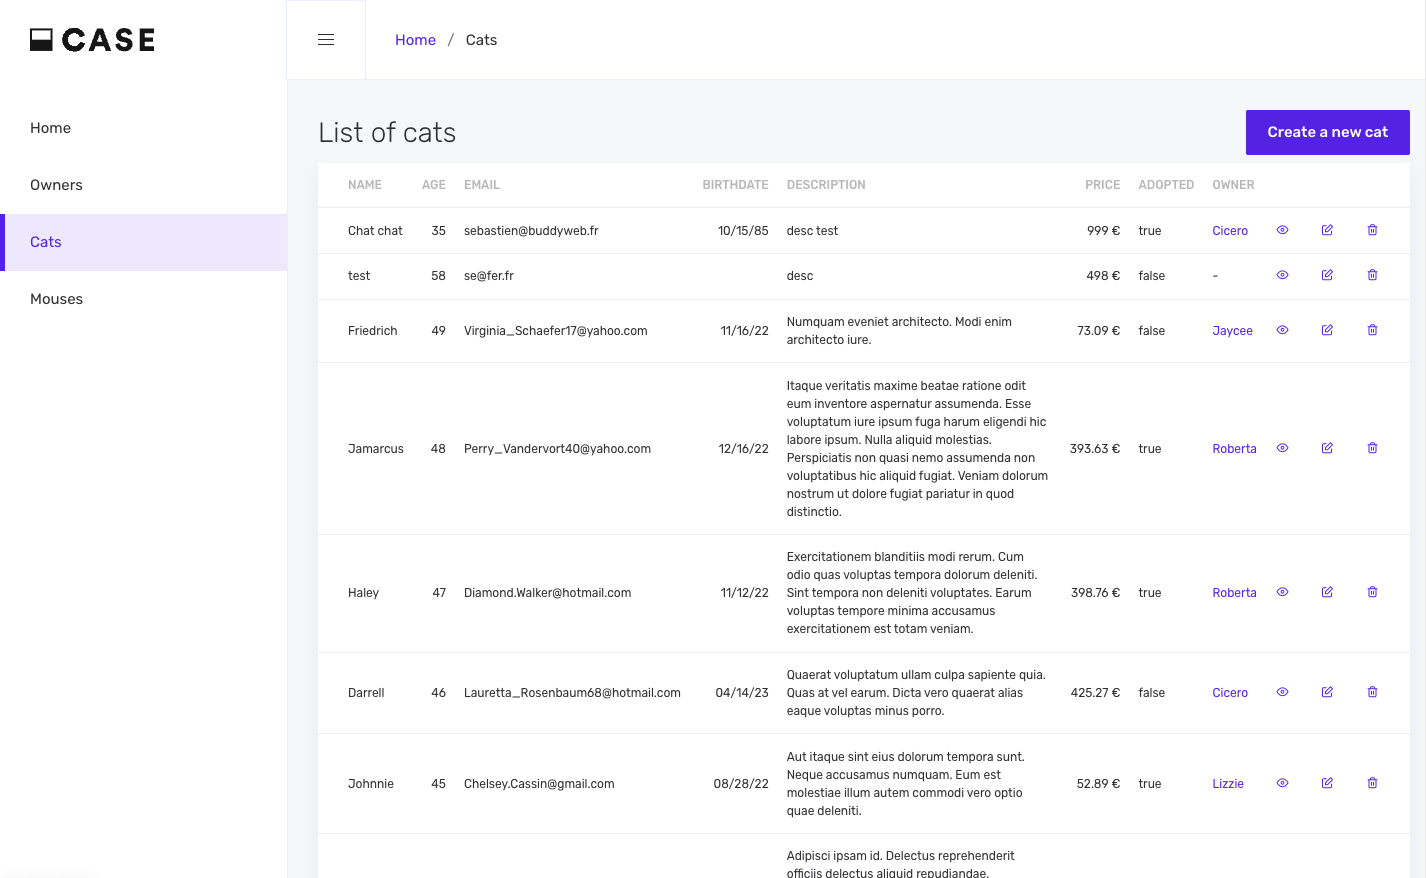
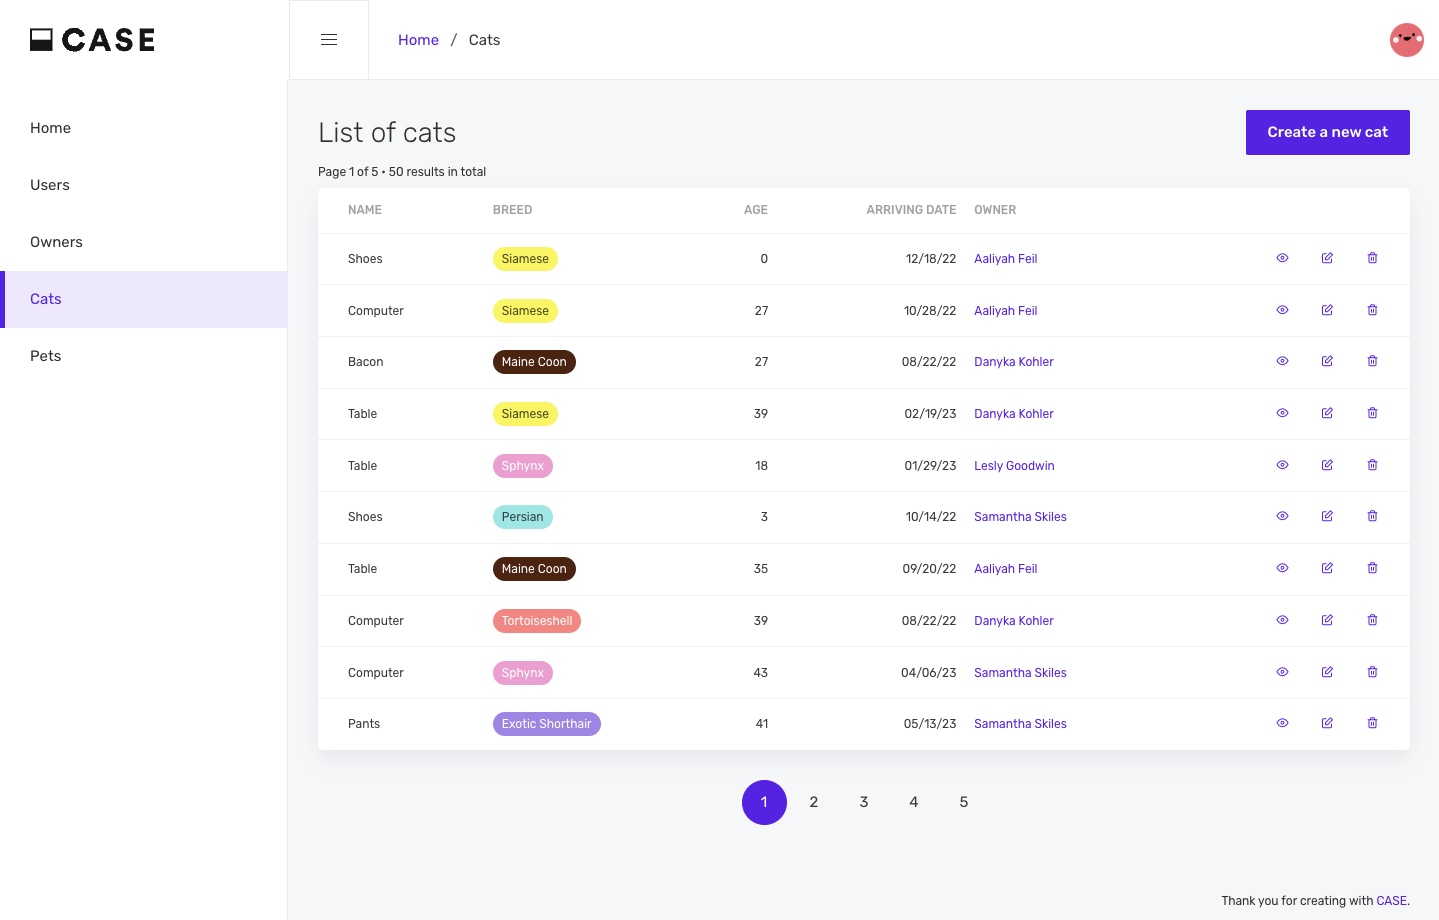
doc: start to style the V2 documentation

diff --git a/docs/index.html b/docs/index.html
@@ -18,6 +18,12 @@
   <body>
     <div id="app"></div>
     <style>
+      .is-ib {
+        display: inline-block;
+      }
+      .is-ib img {
+        display: block;
+      }
       .markdown-section {
         max-width: 80%;
         font-size: 17px;
@@ -64,6 +70,31 @@
           0px 5px 11px rgba(59, 59, 59, 0.1), 0px 0px 0px rgba(59, 59, 59, 0.1);
         width: calc(100% - 6rem);
       }
+
+      .is-flex {
+        display: flex;
+      }
+      .is-align-items-center {
+        align-items: center;
+      }
+      .is-justify-content-center {
+        justify-content: center;
+      }
+      .yield,
+      .field {
+        height: 100%;
+        width: 50%;
+      }
+      .is-hidden-tablet {
+        @media screen and (max-width: 768px) {
+          display: none;
+        }
+      }
+      .is-hidden-desktop {
+        @media screen and (min-width: 769px) {
+          display: none;
+        }
+      }
     </style>
     <script>
       window.$docsify = {
@@ -93,5 +124,8 @@
 
     <!-- Latest v2.1.1 -->
     <script src="https://unpkg.com/docsify-copy-code@2"></script>
+
+    <!--  Plugin -->
+    <script src="//cdn.jsdelivr.net/npm/docsify-sidebar-collapse/dist/docsify-sidebar-collapse.min.js"></script>
   </body>
 </html>

diff --git a/docs/property-types.md b/docs/property-types.md
@@ -21,14 +21,31 @@ Each **PropType** corresponds to a set a different logic, display, format and op
 
 A simple text field.
 
-%% TODO: Code + input image + yield image
-
 ```js
   @Prop({
     type: PropType.Text
   })
   name: string
 ```
+
+<div class="is-hidden-tablet">
+  <div class="is-flex is-justify-content-center is-align-items-center">
+    <div class="field">
+      <h5>Generated field</h5>
+    </div>
+    <div class="yield">
+      <h5>Generated yield</h5>
+    </div>
+  </div>
+  <img src="../assets/images/prop-text.png">
+</div>
+
+<div class="is-hidden-desktop"> 
+    <h5>Generated field</h5>
+    <img src="../assets/images/field-text.png">
+    <h5>Generated yield</h5>
+    <img src="../assets/images/yield-text.png">
+</div>
 
 #### <a name="number"></a>Number
 

diff --git a/docs/_sidebar.md b/docs/_sidebar.md
@@ -1,20 +1,16 @@
-**Getting started**
-
+- **Getting started**
 - [Introduction](introduction.md)
 - [Install](install.md)
 
-**Your data**
-
+- **Your data**
 - [Create an entity](entities.md)
 - [Add properties to an entity](properties.md)
 - [Property types](property-types.md)
 - [Seed dummy data](dummy-data.md)
 
-**Features**
-
+- **Features**
 - [Auth](auth.md)
 - [Custom logic](custom-logic.md)
 
-**Deploy**
-
+- **Deploy**
 - [Going to production](going-to-production.md)

diff --git a/docs/introduction.md b/docs/introduction.md
@@ -1,6 +1,8 @@
 # CASE Documentation 👋
 
-![CASE App](../assets/images/cat-list.png ':class=is-bordered shadow')
+<span class="is-ib is-bordered">
+![CASE App](../assets/images/cat-list.png ':class=is-bordered')
+</span>
 
 ## What is CASE ?
 
